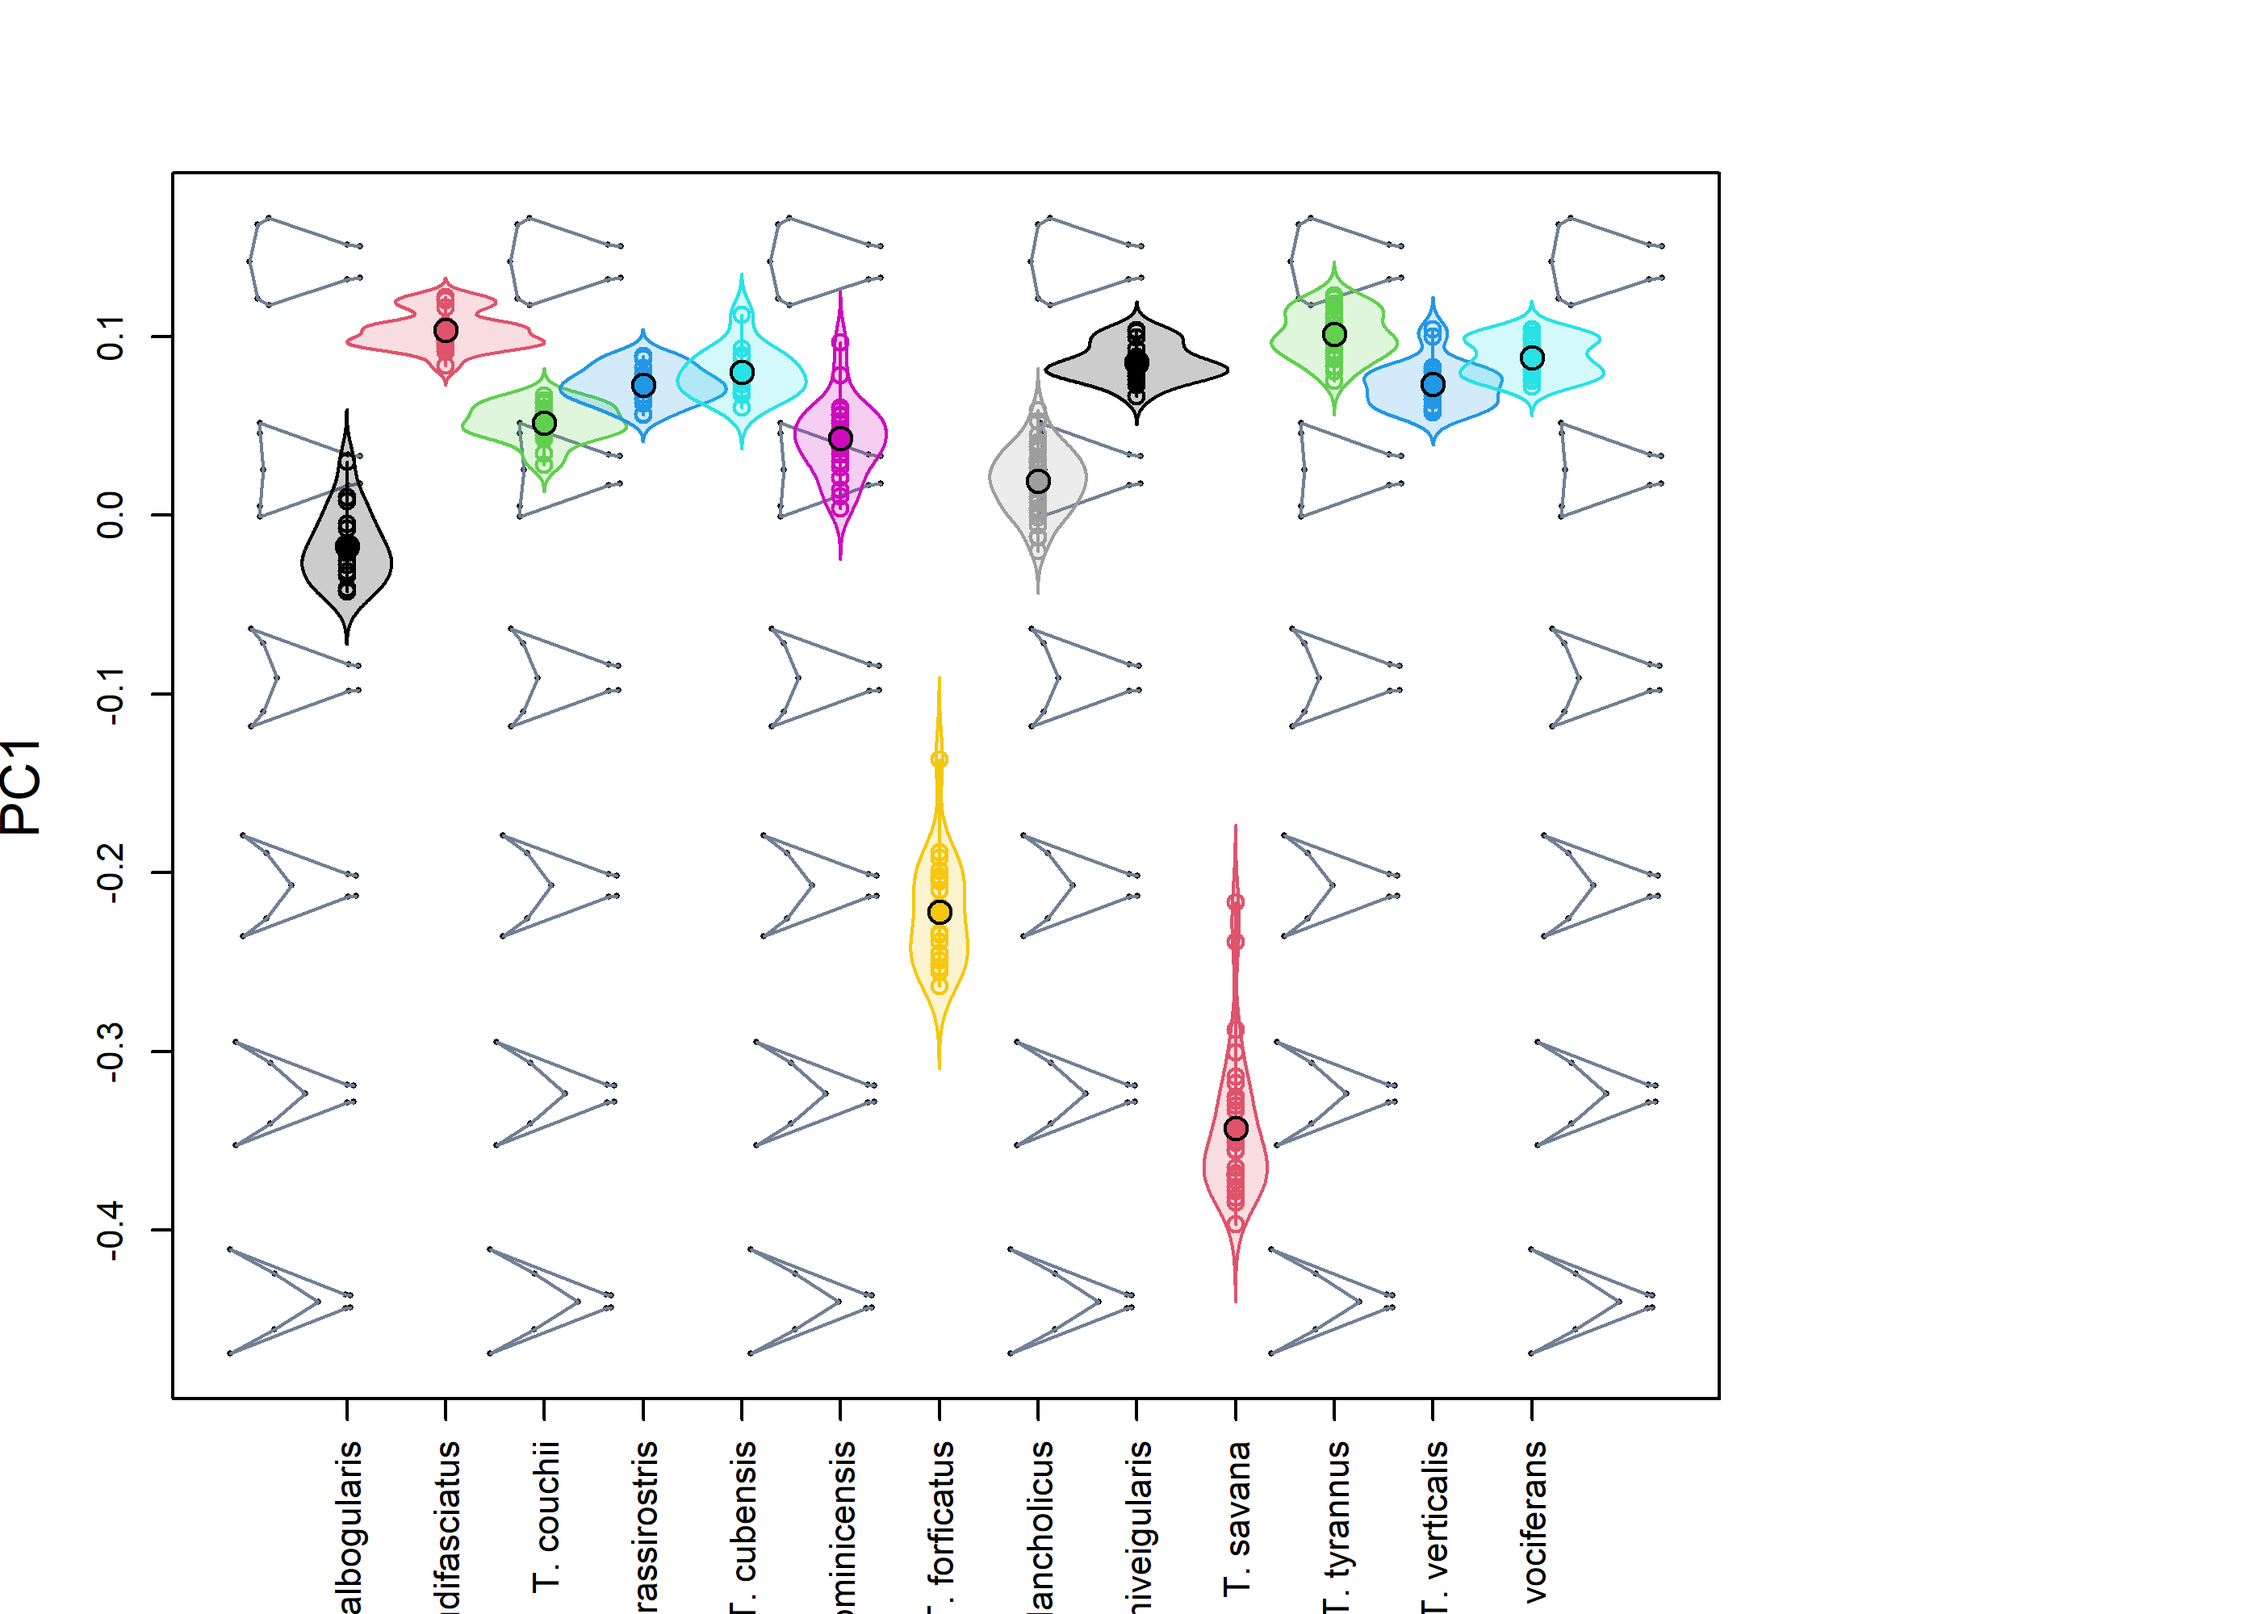
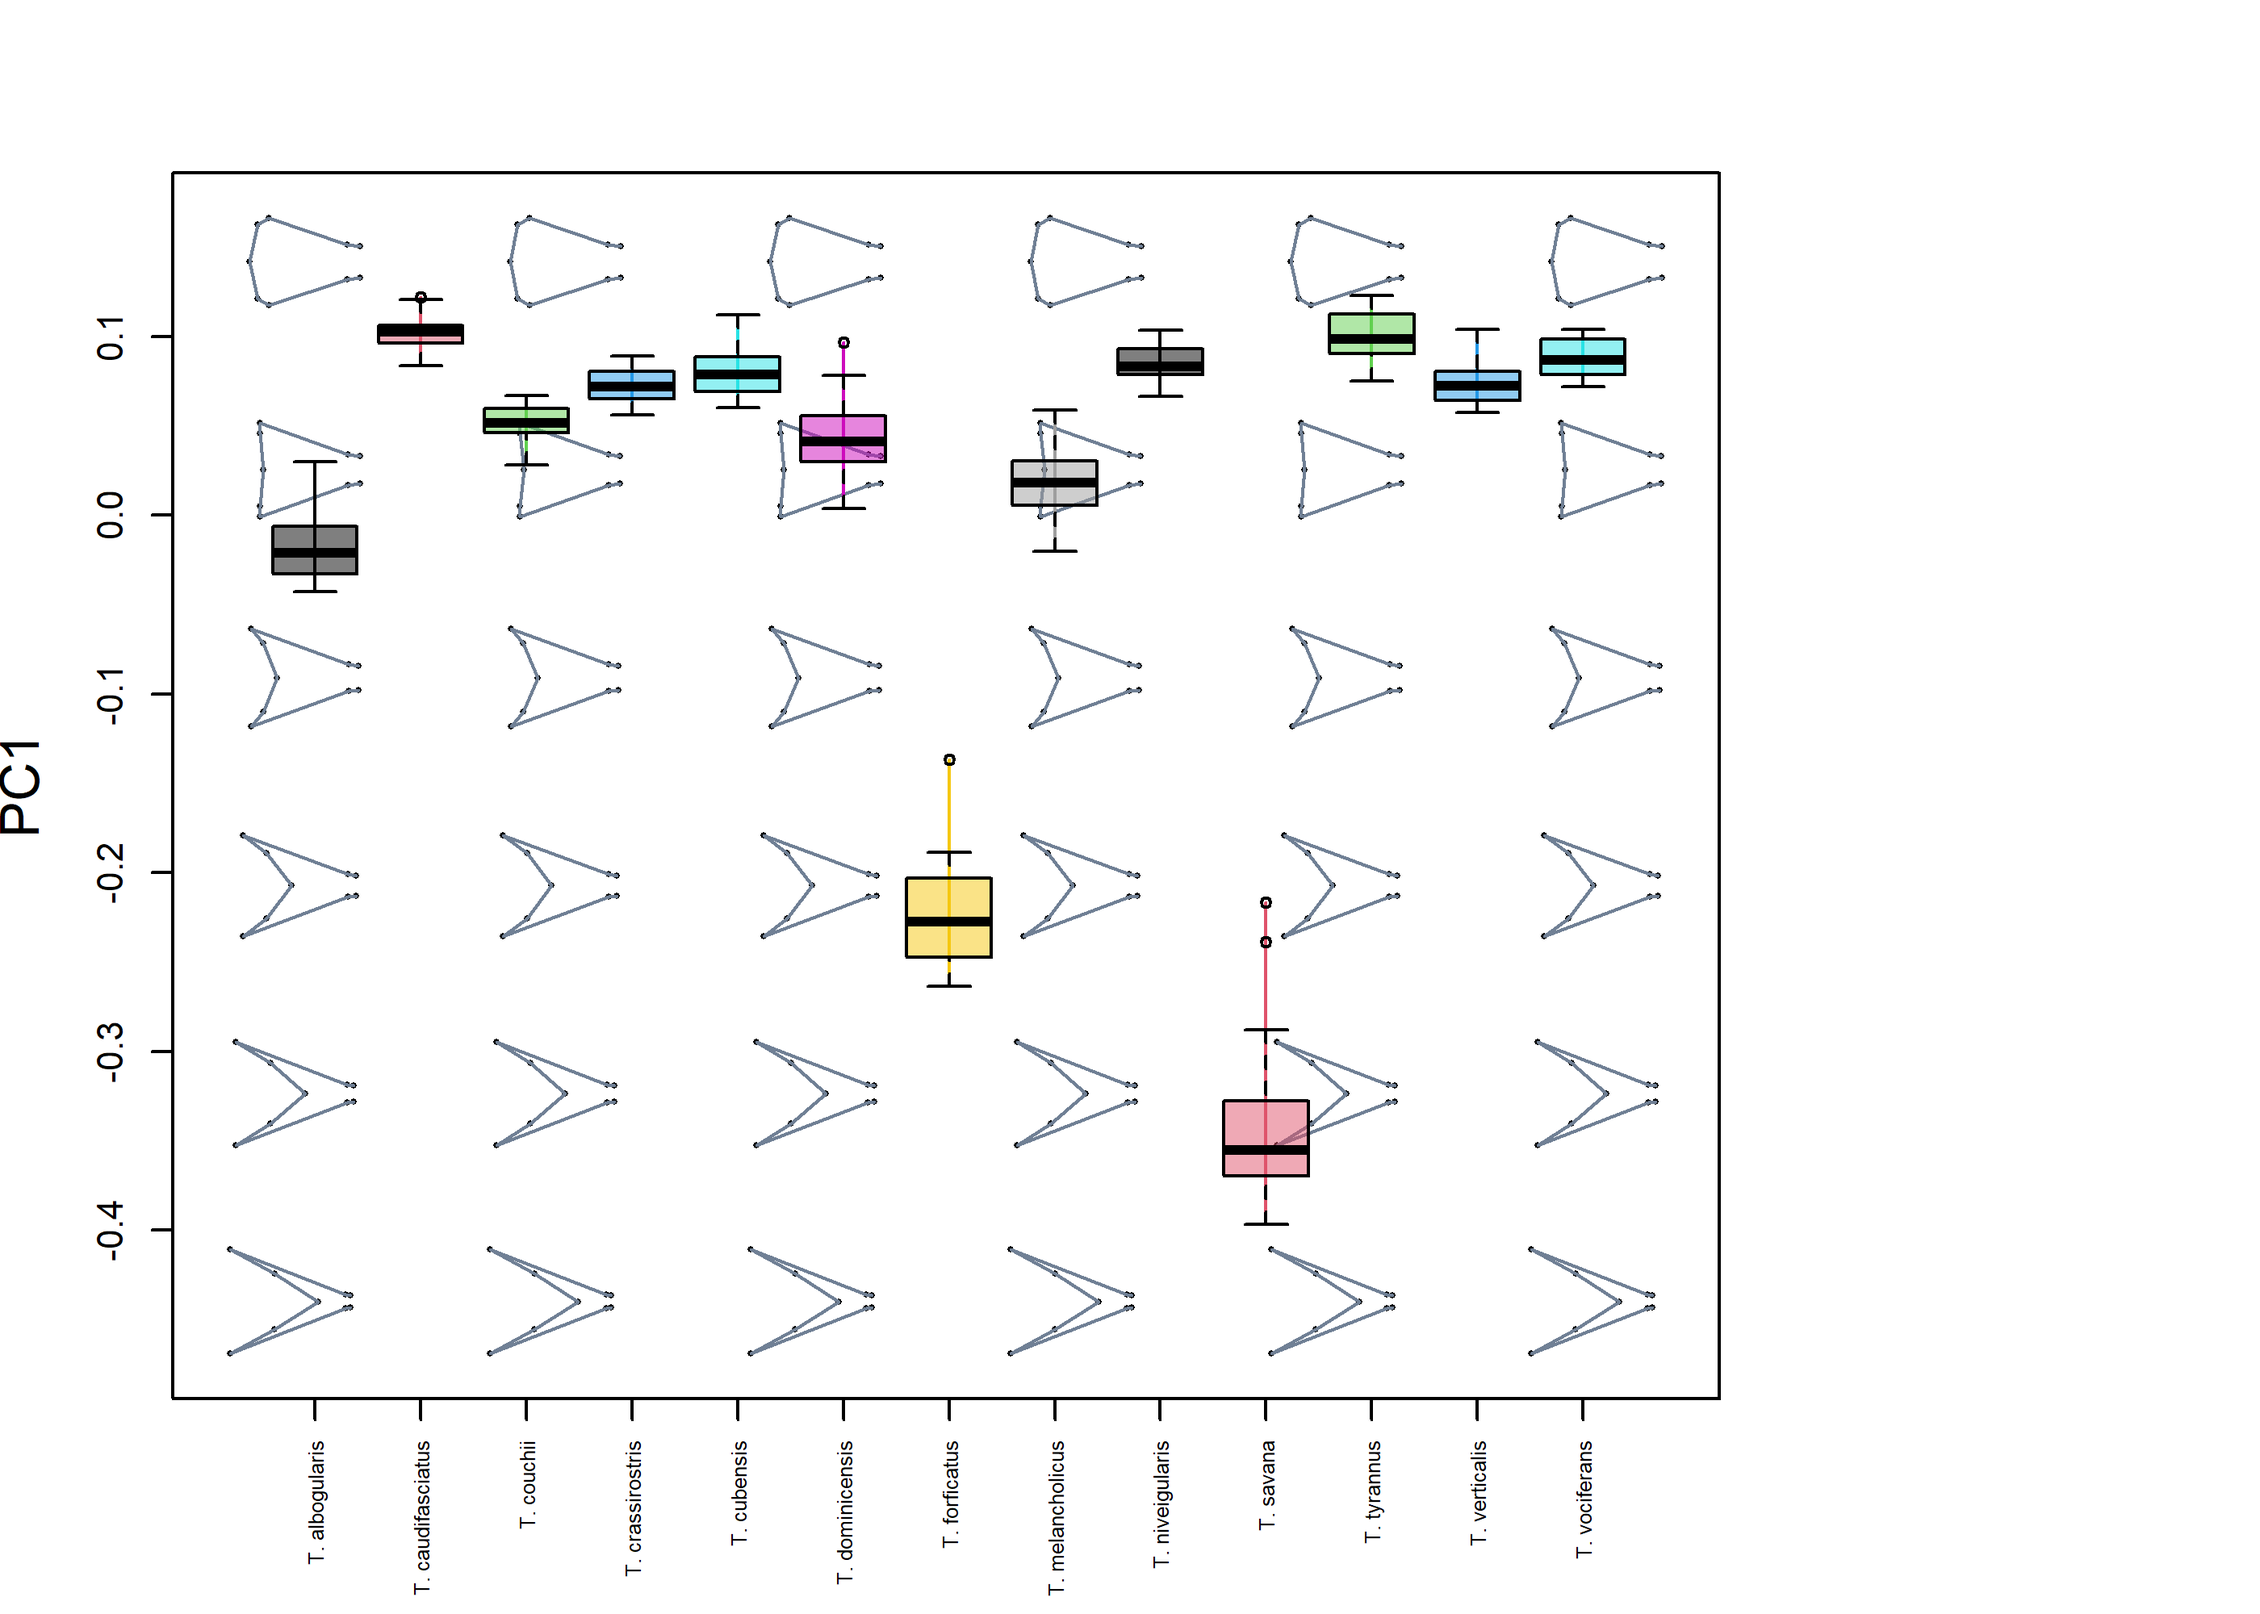
added boxplots for hybrid morphospaces with categorical variables; also changed some warnings for messages.

diff --git a/README.md b/README.md
@@ -56,7 +56,6 @@ belonging to 13 species of the genus *Tyrannus*.
 ``` r
 library(morphospace)
 library(geomorph)
-#> Warning: package 'Matrix' was built under R version 4.3.2
 library(Morpho)
 library(Momocs)
 library(magrittr)
@@ -120,7 +119,7 @@ interspecific variation.
 
 ``` r
 # Plot PC1 against species classification
-plot_mspace(msp, x = spp, axes = 1, nh = 6, nv = 6, cex.ldm = 4, 
+plot_mspace(msp, x = spp, axes = 1, nh = 6, nv = 6, cex.ldm = 4, boxplot.groups = TRUE,
             alpha.groups = 0.5, col.points = spp, col.groups = 1:nlevels(spp), 
             phylo = FALSE, xlab = "Log-size", legend = TRUE)
 ```
@@ -297,8 +296,8 @@ as a couple of new features:
   `pls_shapes`) and `plot_mspace` in certain situations) is performed
   under a simple Equal rates model via `ape::ace`.
 
-- Introduction of violin plots for combining shape ordination axes with
-  categorical variables via `plot_mspace`.
+- Introduction of box and violin plots for combining shape ordination
+  axes with categorical variables via `plot_mspace`.
 
 - Tip and node labels can now be included in phylomorphospaces,
   phenograms and hybrid phylomorphospaces.
